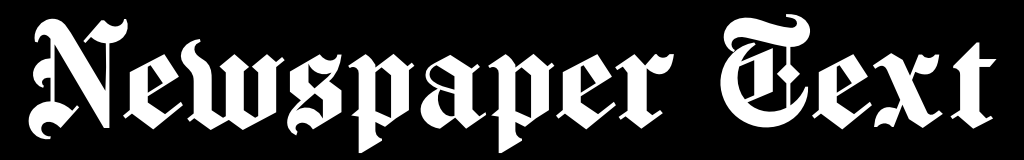
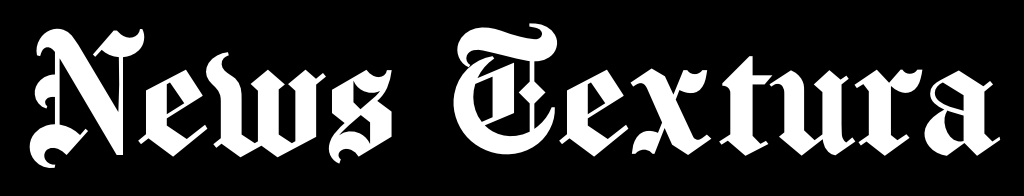
Update nameplate image for new name News Textura

Changed region(s): [[0.0312, 0.0938, 1.0, 0.9688]]

diff --git a/documentation/images/headline.py b/documentation/images/headline.py
@@ -4,7 +4,7 @@ import math
 
 # CONSTANTS
 W = 1024  # Width
-H = 160   # Height
+H = 196   # Height
 M = 32    # Margin
 U = 32    # Unit (Grid Unit)
 
@@ -38,9 +38,9 @@ new_page()
 #grid() # Toggle for grid view
 
 font("fonts/ttf/NewspaperText-Regular.ttf")
-fontSize(M*4.5)
+fontSize(M*5.2)
 fill(1)
-text("Newspaper Text", (M*0.7, M*1))
+text("News Textura", (M*0.7, M*1.3))
 
 # SAVE THE IMAGE IN THIS SCRIPT'S DIRECTORY LOCATION
 # POST-PROCESS: gifsicle -i text-specimen.gif --optimize=16 -o output.gif
